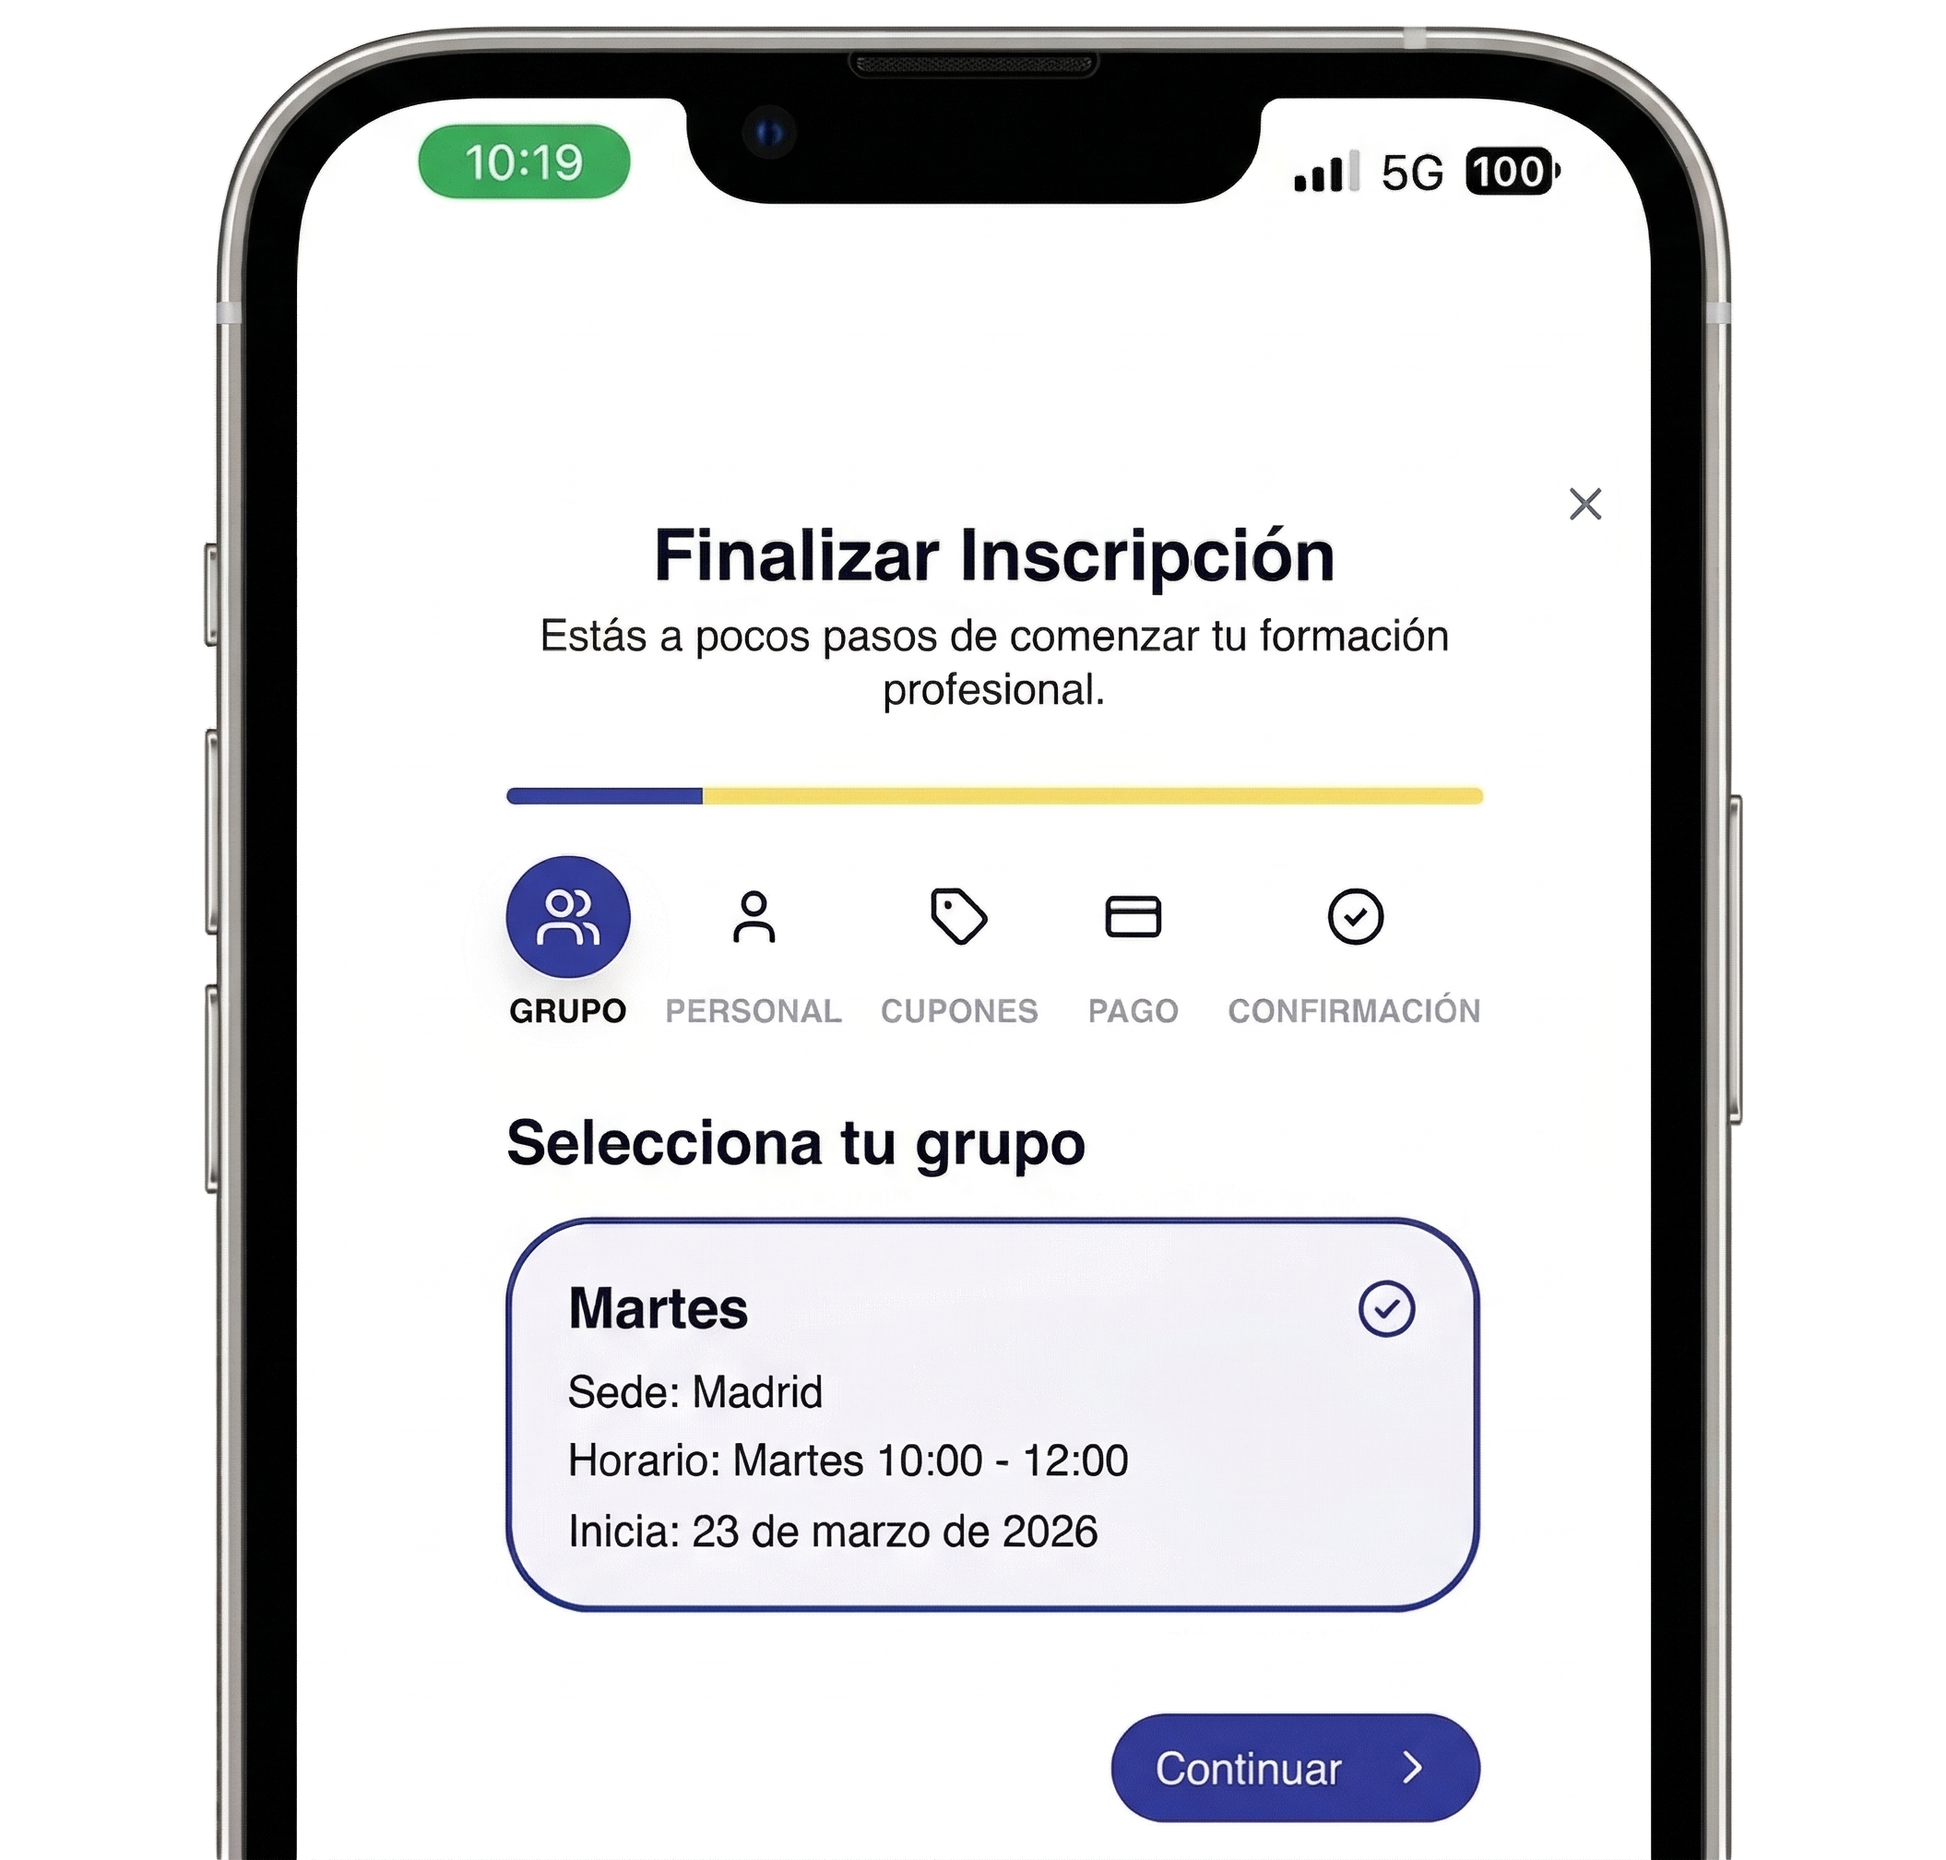
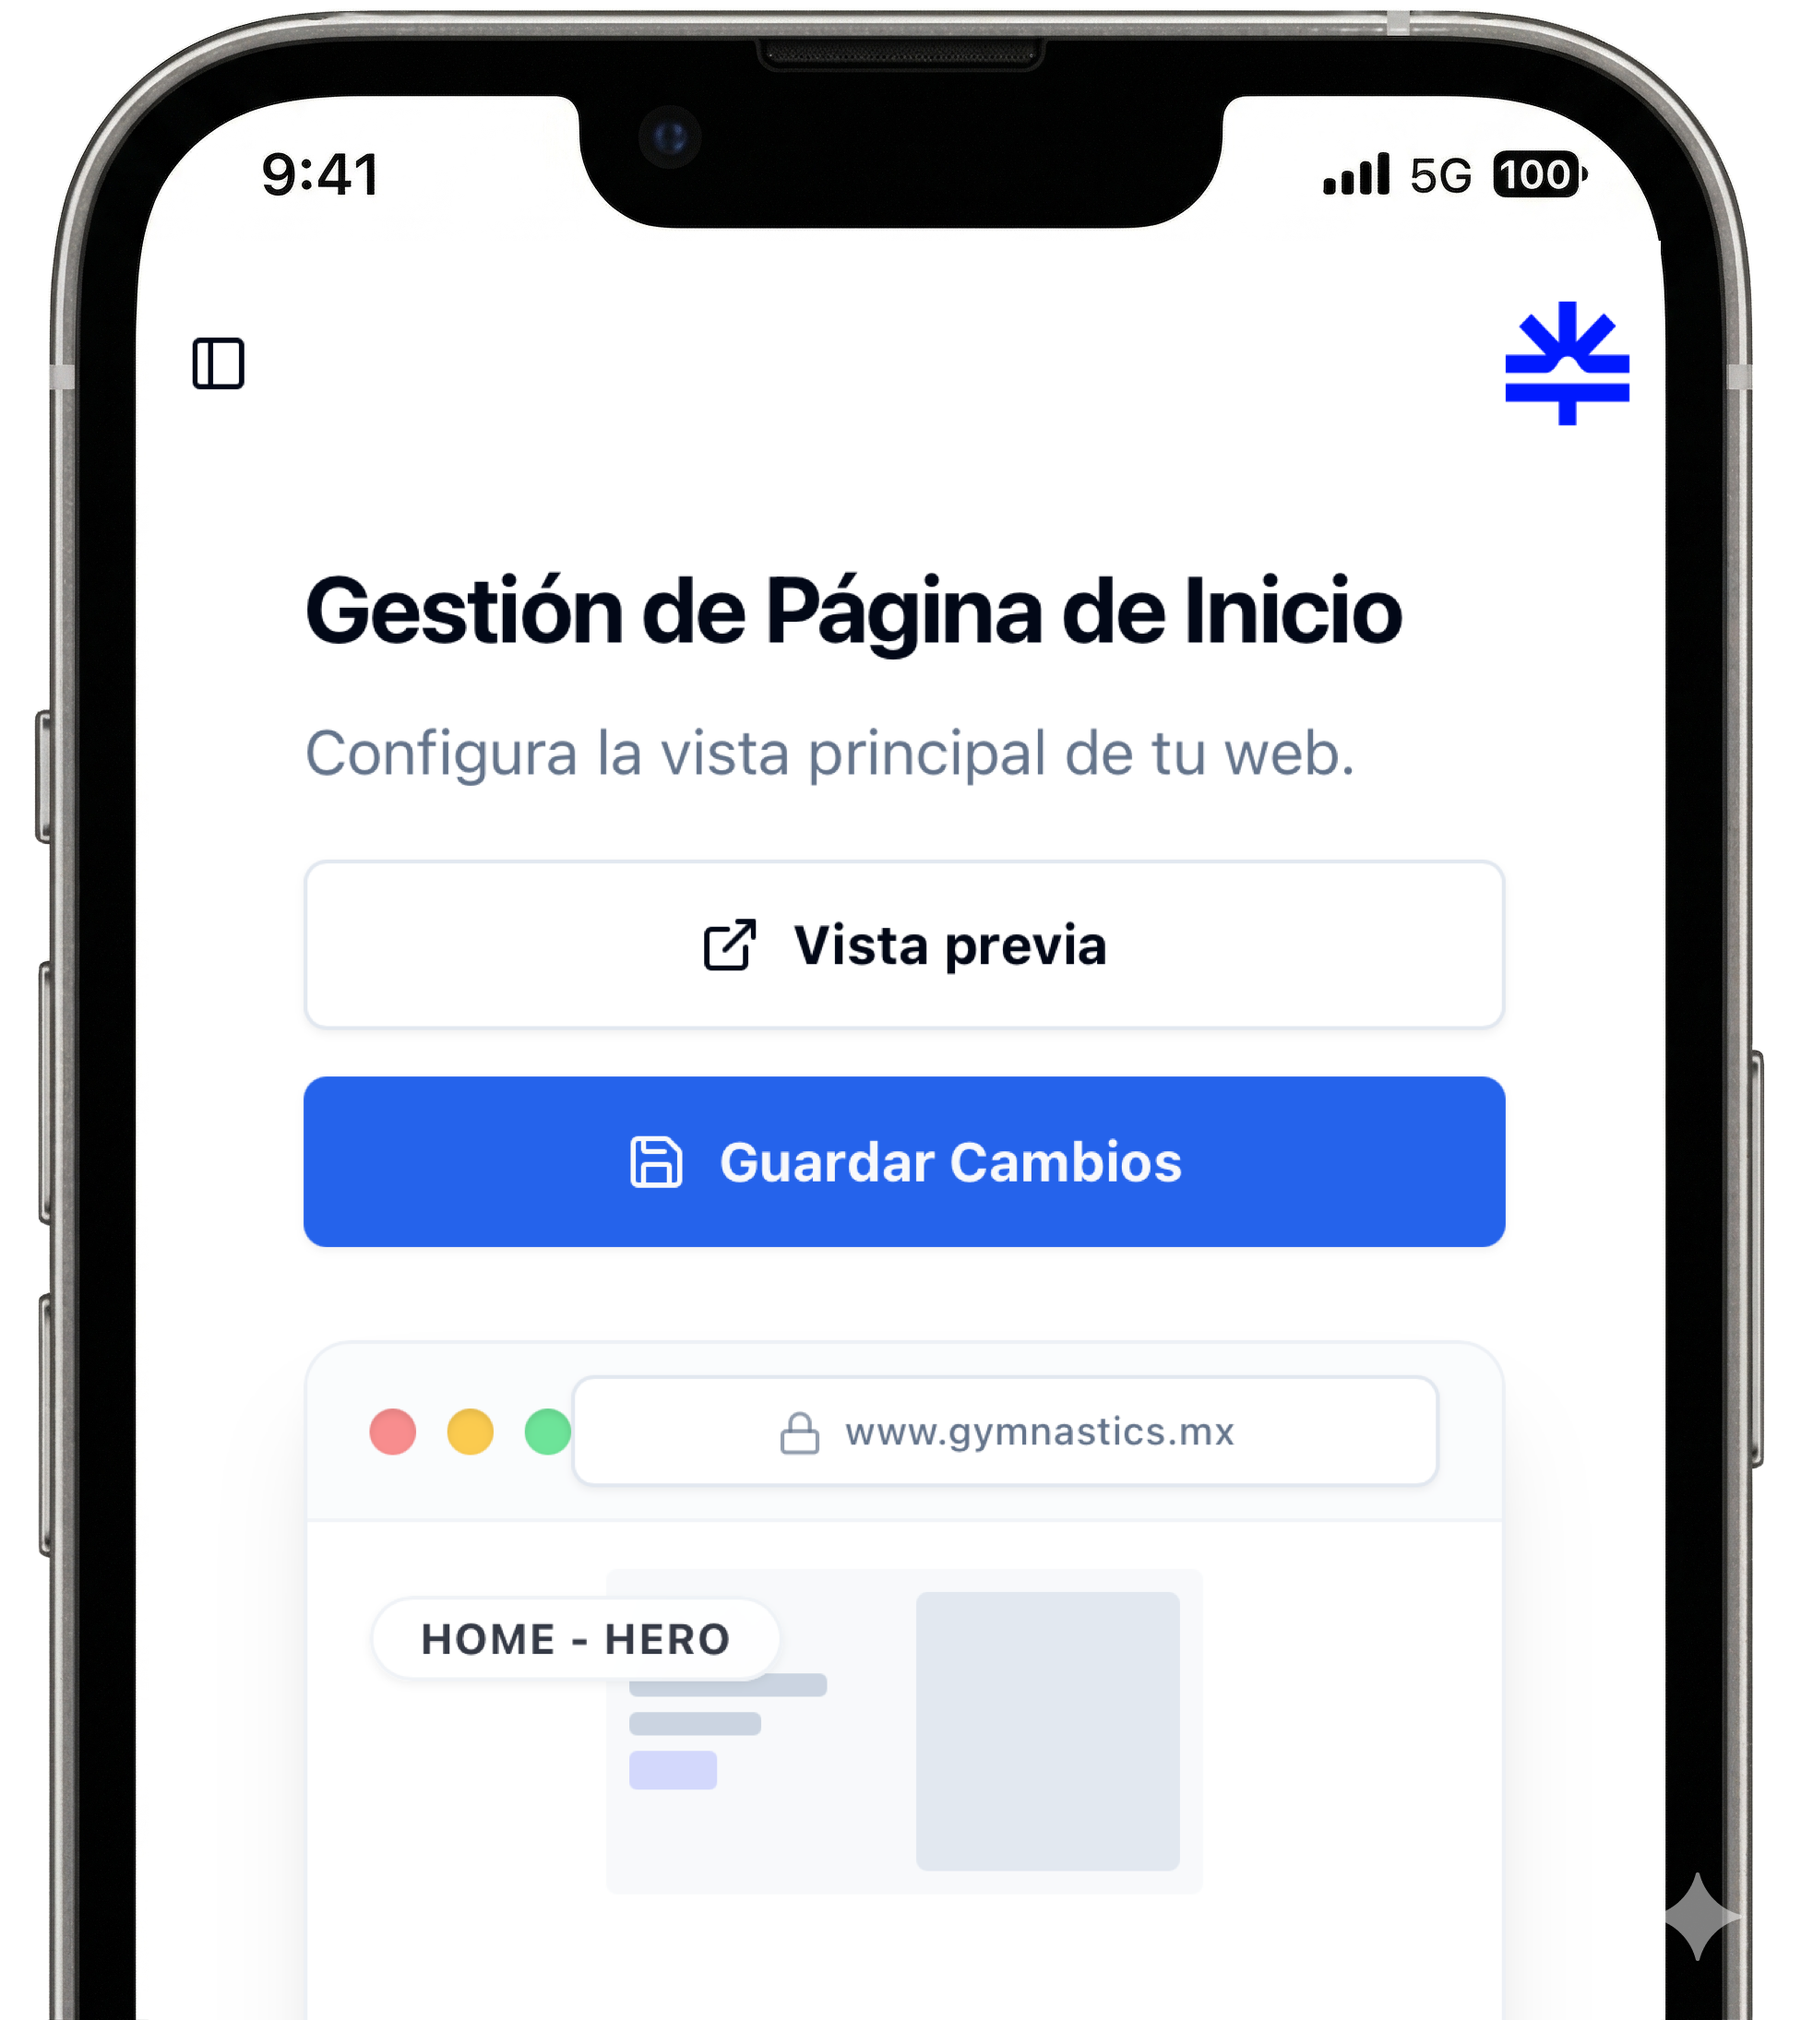
Minor fixes

diff --git a/src/components/blocks/hero-section/hero-section.tsx b/src/components/blocks/hero-section/hero-section.tsx
@@ -249,7 +249,14 @@ const HeroSection = () => {
             delay={1}
             transition={{ duration: 0.7 }}
             className='bg-background absolute right-1/2 bottom-0 aspect-square w-[28%] -translate-x-[78%] -rotate-2 rounded-md opacity-50 max-sm:hidden'
-          />
+          >
+            <img src='/images/widget-left-2.png' alt='Panel de gestión académica de ClassTrack' className='dark:hidden' />
+            <img
+              src='/images/widget-left-2.png'
+              alt='Panel de gestión académica de ClassTrack'
+              className='hidden dark:inline-block rounded-md'
+            />
+          </MotionPreset>
 
           {/* Card Behind 2 */}
           <MotionPreset
@@ -259,8 +266,15 @@ const HeroSection = () => {
             delay={1}
             transition={{ duration: 0.7 }}
             className='bg-background absolute bottom-0 left-1/2 aspect-square w-[28%] translate-x-[78%] rotate-2 rounded-md opacity-50 max-sm:hidden'
-          />
-
+          >
+          <img src='/images/widget-right-2.png' alt='Panel de gestión académica de ClassTrack' className='dark:hidden' />
+            <img
+              src='/images/widget-right-2.png'
+              alt='Panel de gestión académica de ClassTrack'
+              className='hidden dark:inline-block rounded-md'
+            />
+          </MotionPreset>
+          
           {/* Widget card left */}
           <MotionPreset
             fade
@@ -274,7 +288,7 @@ const HeroSection = () => {
             <img
               src='/images/widget-left.png'
               alt='Panel de gestión académica de ClassTrack'
-              className='hidden dark:inline-block'
+              className='hidden dark:inline-block rounded-md'
             />
           </MotionPreset>
 
@@ -291,7 +305,7 @@ const HeroSection = () => {
             <img
               src='/images/widget-right.png'
               alt='Módulos de automatización para academias'
-              className='hidden dark:inline-block'
+              className='hidden dark:inline-block rounded-md'
             />
           </MotionPreset>
 
@@ -304,9 +318,9 @@ const HeroSection = () => {
             transition={{ duration: 0.7 }}
             className='w-full max-w-[37.5%] min-w-xs'
           >
-            <img src='/images/hero-mobile.png' alt='El software para academias ClassTrack' className='dark:hidden' />
+            <img src='/images/hero-mobile_.png' alt='El software para academias ClassTrack' className='dark:hidden' />
             <img
-              src='/images/hero-mobile.png'
+              src='/images/hero-mobile_.png'
               alt='Software para academias ClassTrack'
               className='hidden dark:inline-block'
             />
